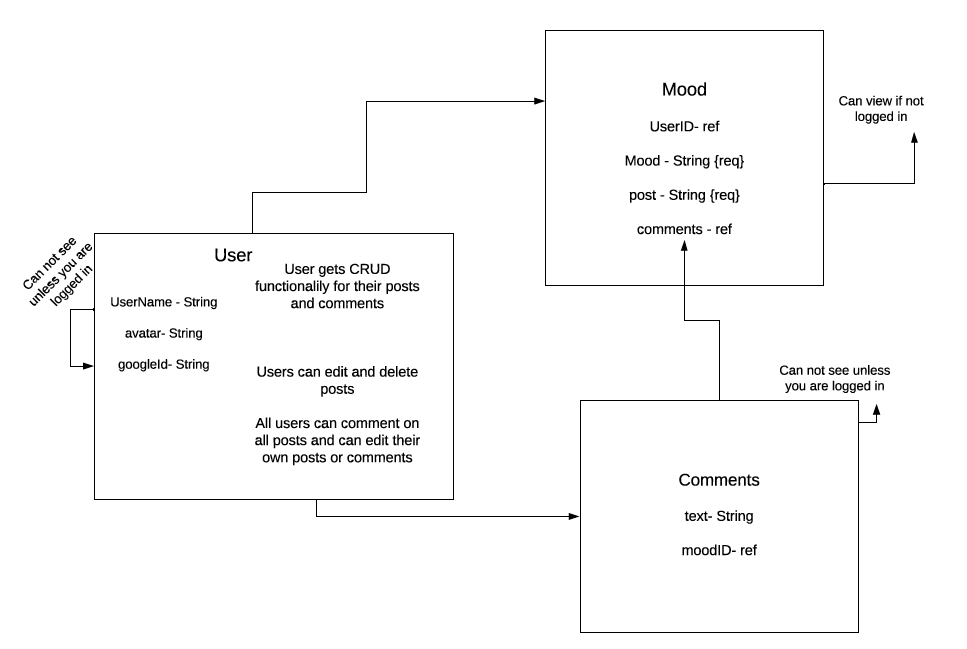
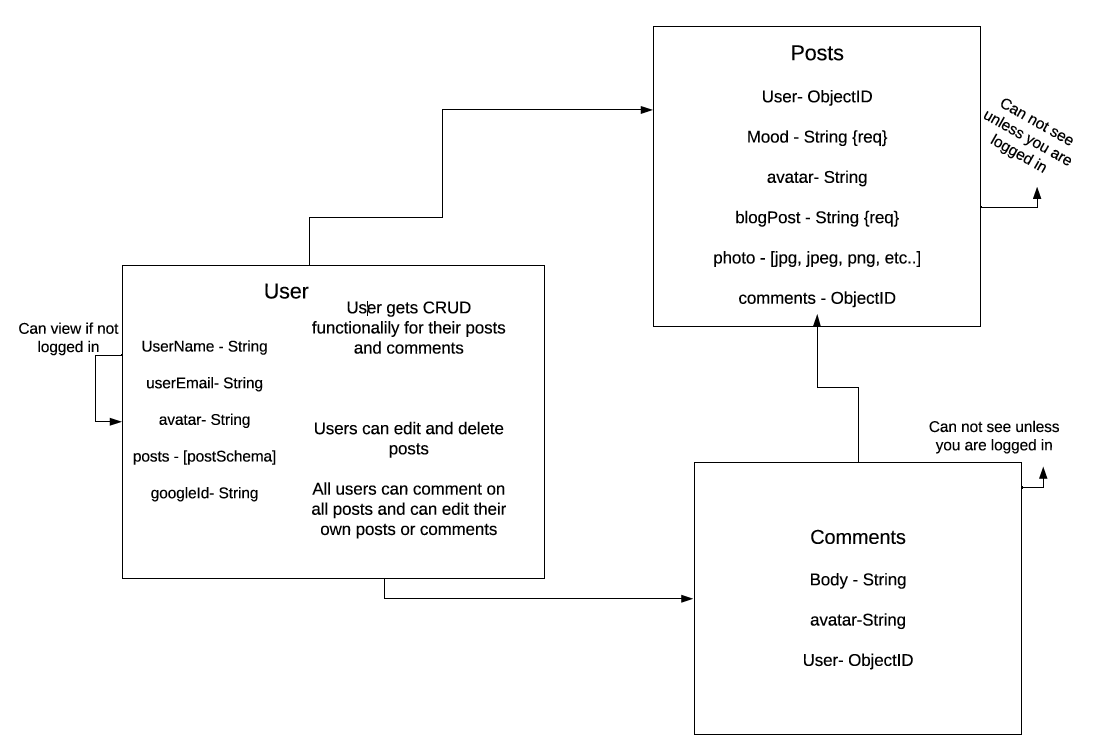
last picture for README

diff --git a/README.md b/README.md
@@ -18,7 +18,7 @@ Within my vision for the app- that being building a community in a series of emo
 
 ![Wireframe 1](public/images/Wireframe-Page1.png)
 
-![Wireframe 2](public/images/Wireframe-Page2.png)
+![Wireframe 2](public/images/Wireframe-NewPage.png)
 
 ![Wireframe 3](public/images/Wireframe-Page3.png)
 
